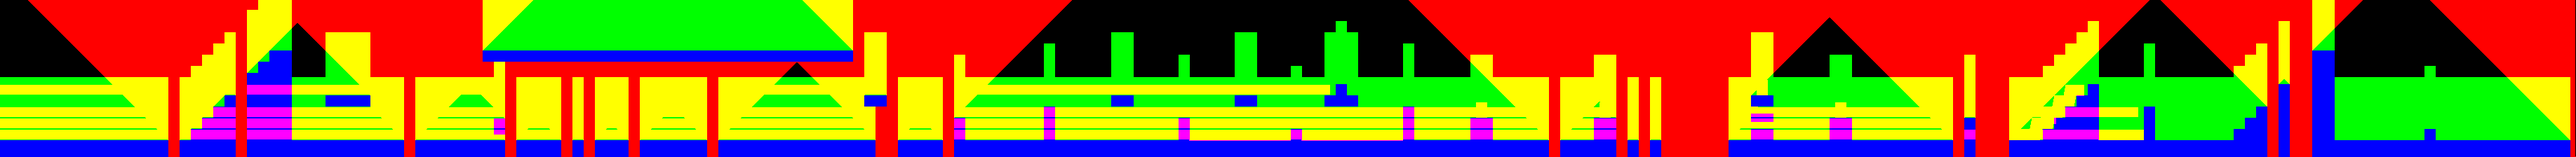
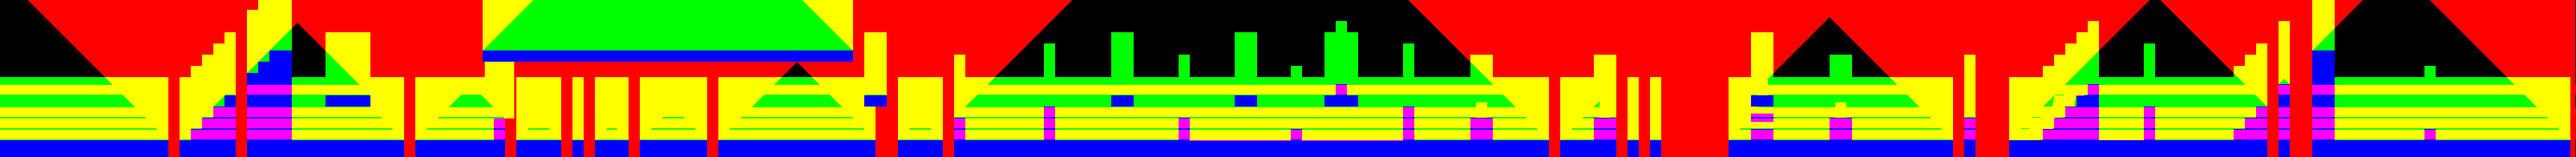
Fix bullet bill all directions

diff --git a/gamedifficulty/Processing.py b/gamedifficulty/Processing.py
@@ -180,17 +180,8 @@ def CreateBulletBillDisplacementTexture(detections: list[(int, int, int, int)], 
 
     for (y, x, sizeY, sizeX) in detections:
         result[y:y + sizeY, x:x + sizeX] = 1
-
-        direction = -1
         
-        currX = x
-        
-        while currX >= 0:
-            currX += direction
-
-            if currX + sizeX >= collisionMask.shape[1]:
-                break
-            
+        for currX in range(0, collisionMask.shape[1] - sizeX + 1):
             result[y:y + sizeY, currX:currX + sizeX] = 1
 
     return result

diff --git a/main.py b/main.py
@@ -12,7 +12,7 @@ import matplotlib.pyplot as plt
 
 # Load the level image
 # level = "Niveau_6_3"
-level = "Niveau_6_3"
+level = "Niveau_8_3"
 levelImage = cv.imread(f"ressources/{level}/level.png")
 
 # cv.imshow("Level", levelImage)
